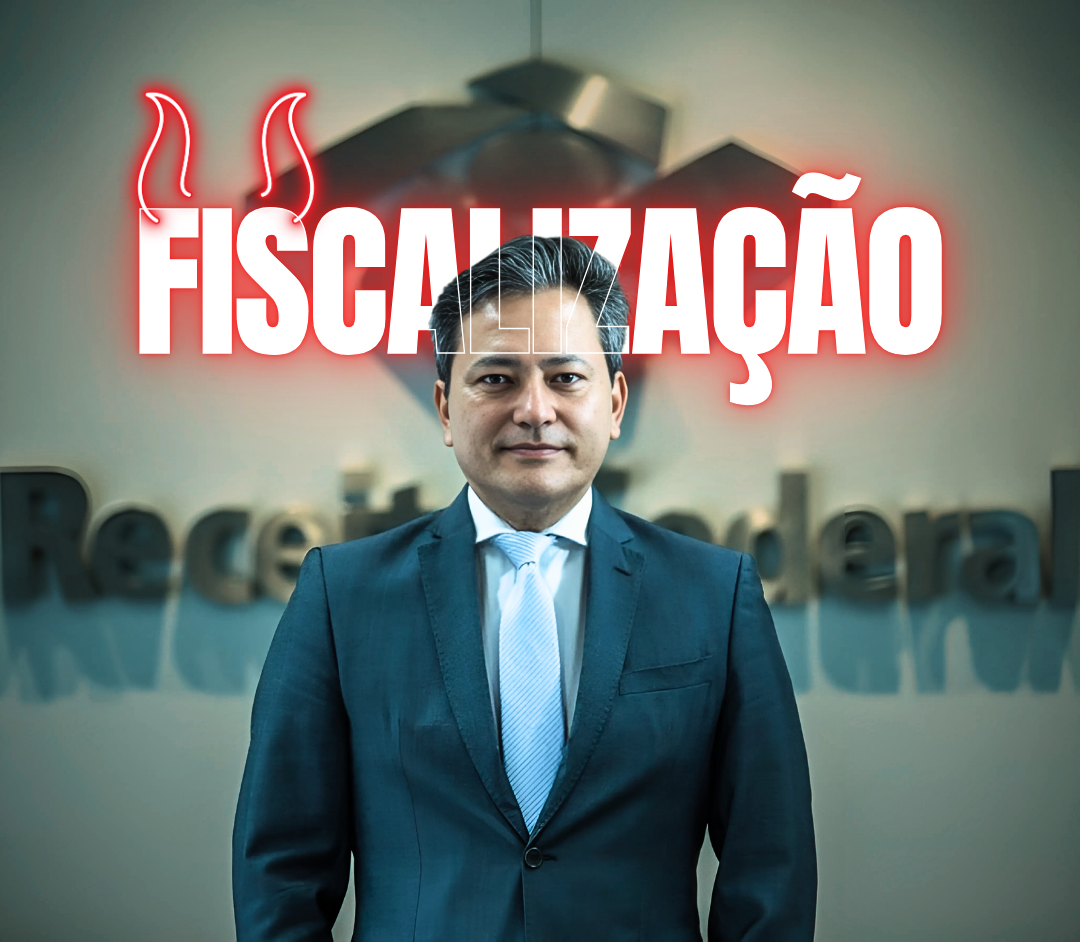
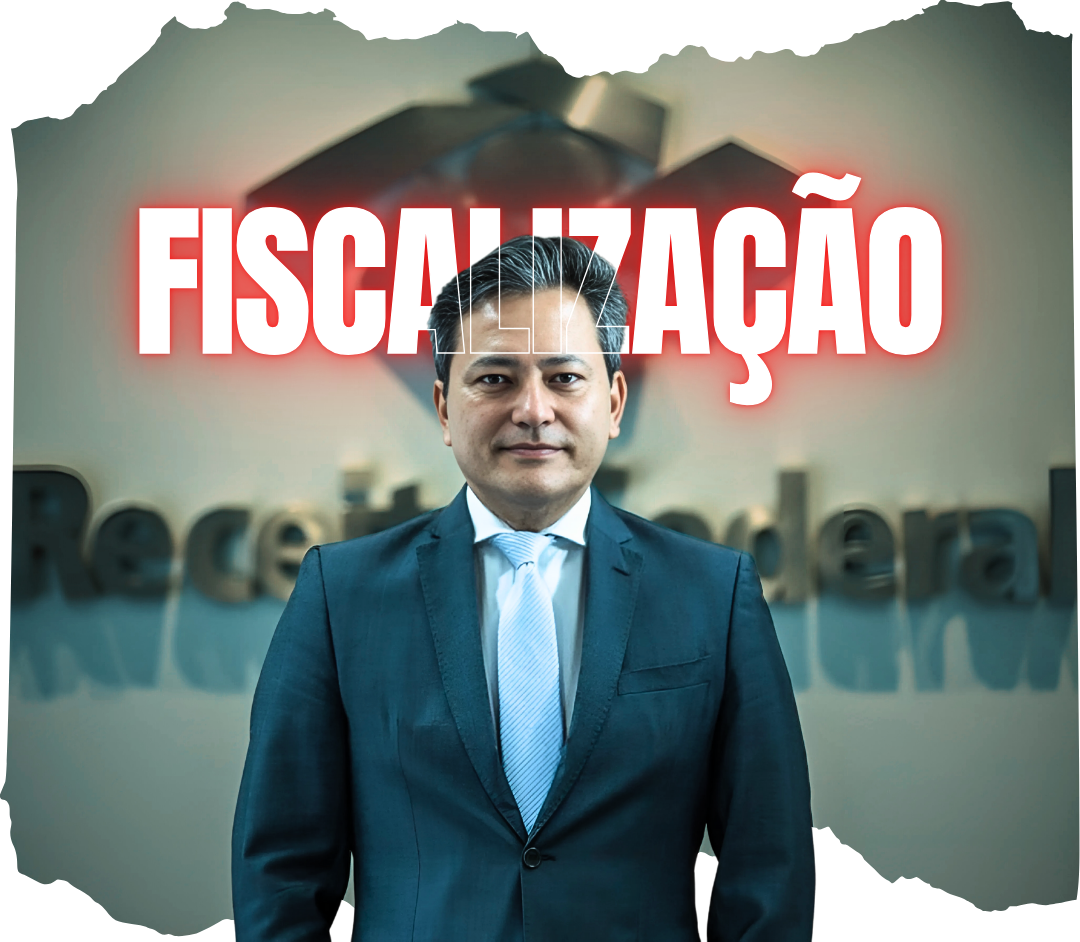
Mudanças radicais no layout

diff --git a/index.html b/index.html
@@ -21,8 +21,8 @@
             <div class="nav-list">
                 <ul>
                     <li class="nav-item"><a href="#" class="nav-link">SOBRE</a></li>
-                    <li class="nav-item"><a href="#" class="nav-link">CONTATO</a></li>
-                    <li class="nav-item"><a href="#" class="nav-link">MAIS</a></li>
+                    <li class="nav-item"><a href="#" class="nav-link">TUTORIAL</a></li>
+                    <li class="nav-item"><a href="#" class="nav-link">SUPORTE</a></li>
                 </ul>
             </div>
 
@@ -39,8 +39,8 @@
         <div class="mobile-menu">
             <ul>
                 <li class="nav-item"><a href="#" class="nav-link">SOBRE</a></li>
-                <li class="nav-item"><a href="#" class="nav-link">CONTATO</a></li>
-                <li class="nav-item"><a href="#" class="nav-link">MAIS</a></li>
+                <li class="nav-item"><a href="#" class="nav-link">TUTORIAL</a></li>
+                <li class="nav-item"><a href="#" class="nav-link">SUPORTE</a></li>
             </ul>
 
             <div class="login-button">
@@ -78,9 +78,60 @@
         </section>
 
         
-        <div class="quebra-texto">
-            <h1>Apresentando a TANIA: A Nova Era da Liberdade Financeira no Brasil</h1>
-        </div>
+        <section class="corrupcao-brasil">
+
+            <div>
+                <h1 id="titulo">Apresentando a TANIA: A Nova Era da Liberdade Financeira no Brasil</h1>
+            </div>
+            
+            <div class="corrupcao-brasil-conteudo">
+
+                <div class="fotos-quebra-texto">
+                    <img src="img/wallpaper/alexandre-de-moraes.png" alt="" width="400px">
+                </div>
+
+                <div class="quebra-texto">
+
+                    <h1>A Centralização do Governo e o Impacto na Moeda Local</h1>
+
+                    <p>
+                        A centralização excessiva de um governo pode trazer sérias consequências para a moeda local e, consequentemente, para a vida cotidiana das pessoas. Quando um Estado controla rigidamente a política econômica, ele pode manipular a emissão de dinheiro sem restrições, causando inflação descontrolada. Isso significa que o poder de compra da população diminui, os preços sobem e os salários se tornam insuficientes para cobrir necessidades básicas.
+                    </p>
+                    <p>
+                        Além disso, a centralização pode levar a políticas de controle cambial e restrições ao livre comércio, prejudicando negócios e investimentos. Empresas enfrentam barreiras burocráticas e alta tributação, desestimulando o crescimento econômico. No dia a dia, isso se traduz em produtos mais caros, desemprego e falta de oportunidades. Quando um governo tem controle absoluto sobre a economia, a população perde sua capacidade de tomar decisões financeiras independentes, ficando refém de uma estrutura que prioriza os interesses do Estado em detrimento da liberdade econômica dos cidadãos.
+                    </p>
+                </div>
+            </div>
+
+            <div class="corrupcao-brasil-conteudo">
+
+                <div class="quebra-texto">
+
+                    <h1>Fiscalização Excessiva e Invasão de Privacidade: Um Risco para a Liberdade Individual</h1>
+
+                    <p>
+                        A fiscalização excessiva e a invasão de privacidade representam ameaças sérias às liberdades individuais e ao funcionamento de uma sociedade justa. Quando o Estado ultrapassa limites razoáveis na coleta e monitoramento de informações pessoais, ele cria um ambiente onde os cidadãos vivem sob constante vigilância, o que pode levar à censura, repressão e perda de autonomia.
+                    </p>
+                    <p>
+                        A justificativa muitas vezes usada para tal interferência é a segurança nacional ou o combate à corrupção, mas, na prática, isso pode resultar no abuso de poder e na utilização indevida de dados pessoais. No cotidiano, isso se reflete em dificuldades para acessar serviços financeiros, restrições para realizar transações e riscos de perseguição política ou econômica.
+                    </p>
+                    <p>
+                        A invasão de privacidade também afeta a segurança digital, pois expõe indivíduos a vazamentos de dados, fraudes e manipulação de informações. Quando o governo ou grandes corporações monitoram cada movimento dos cidadãos, a liberdade de expressão é comprometida, pois as pessoas passam a temer represálias ao manifestar opiniões contrárias ao sistema estabelecido.
+                    </p>
+                    <p>
+                        A liberdade econômica e a privacidade são pilares fundamentais para o desenvolvimento de uma sociedade equilibrada. Um governo que controla excessivamente as finanças e espiona seus cidadãos enfraquece a confiança na economia e inibe o progresso social. Portanto, é essencial defender limites claros para a fiscalização estatal e garantir que os direitos individuais sejam respeitados, protegendo o futuro de uma sociedade verdadeiramente livre e próspera.
+                    </p>
+
+
+                </div>
+
+                <div class="fotos-quebra-texto">
+                    <img src="img/wallpaper/Barreirinhas-1080x942.png" alt="" width="400px">
+                </div>
+
+            </div>
+        
+        </section>
 
         <section class="secao-main2">
             
@@ -201,17 +252,16 @@
 
         <section class="secao-main6">
 
-            <div class="div-title-como-adquirir">
-                <h1>Junte-se à Revolução Financeira</h1>
-            </div>
                          
             <div class="div-revolucao">
 
+                <div class="div-title-como-adquirir">
+                    <h1>Junte-se à Revolução Financeira</h1>
+                </div>
+
                 <div class="div-content">
                     
-                    <img src="img/wallpaper/politicos.png" alt="" width="500px">
-                    <img src="img/wallpaper/alexandre-de-moraes.png" alt="" width="500px">
-                    <img src="img/wallpaper/Barreirinhas-1080x942.png" alt="" width="500px">
+                    <img src="img/wallpaper/politicos.png" alt="" width="700px">
                 </div>
 
                
@@ -220,7 +270,7 @@
         </section>
 
 
-        <footer>SITE CRIADO POR BRUNO NASCIMENTO</footer>
+        <footer>PROJETO DESENVOLVIDO POR <a href="https://github.com/Bruno70i?tab=repositories" target="_blank">BRUNO NASCIMENTO</a></footer>
 
     </main>
 

diff --git a/style.css b/style.css
@@ -216,24 +216,51 @@ button:hover {
 }
 
 
-.quebra-texto {
+.corrupcao-brasil {
     text-align: center;
     padding: 20px;
     font-size: 14px;
     font-family: var(--font-secondary);
+    margin: auto;
+    margin-bottom: 7rem;
+    max-width: 900px;
+    border-radius: 30px;
+    box-shadow: 5px 10px 15px 6px rgba(71, 66, 37, 0.377);
+    background-color: rgb(221, 219, 219);
 }
+
+
+.corrupcao-brasil-conteudo {
+    display: flex;
+    padding: 10px;
+}
+
+.corrupcao-brasil-conteudo p {
+    padding: 10px;
+    text-align: justify;
+    text-indent: 3rem;
+}
+
+#titulo {
+    padding: 30px;
+}
+
+.quebra-texto h1 {
+    font-size: 1rem;
+}
+
 
 
 /* -------------------- secao 2 INICIO -------------------- */
 .secao-main2 {
     margin: auto;
     align-items: center;
-    background-color: rgba(216, 216, 216, 0.692);
+    background-color: var(--cor-composto11);
+    color: white;
     display: flex;
     justify-content: space-around; /* organiza os itens no centro */
     padding: 15px;
-    max-width: 1200px;
-    border-radius: 20px;
+    max-width: 1000px;
     box-shadow: 5px 10px 15px 6px rgba(71, 66, 37, 0.377);
     margin-bottom: 150px;
 }
@@ -249,11 +276,11 @@ button:hover {
 
 .div-texto p {
     font-family: var(--font-secondary);
-    line-height: 1.5; /*espaços entre linhas*/
+    line-height: 1.3; /*espaços entre linhas*/
     text-indent: 2rem; /* indenta o texto */
     padding: 10px 10px 10px 0px;
     text-align: justify;
-    font-size: 20px;
+    font-size: 17px;
 }
 
 
@@ -352,7 +379,7 @@ button:hover {
 
 .secao-main5 {
     text-align: center;
-    margin-bottom: 10rem;
+    margin-bottom: 7rem;
     
 }
 
@@ -387,27 +414,31 @@ button:hover {
 /* -------------------- SECAO 6 inicio -------------------- */
 
 .secao-main6 {
-    background-color: var(--cor-composto11);
     margin: auto;
     text-align: center;
-    color: white;
+    padding: 30px;
+    .background-color: #000BED; /* aqui vai o back grand de imagme- */
 }
 
 .div-revolucao {
-    display: flex;
     margin: auto;
     padding: 20px;
-    max-width: 1800px;
+    max-width: 800px;
     align-items: center;
     justify-content: center;
     font-family: var(--font-secondary);
-    
+    border-radius: 20px;
+    background-color: rgb(221, 221, 221);
+    box-shadow: 5px 5px 25px 5px rgba(0, 0, 0, 0.445);
 }
 
-.div-content p {
-    padding: 20px;
-    font-size: 20px;
+.div-content {
+    justify-content: center;
 }
+
+
+
+
 
 /* -------------------- SECAO 6 fim -------------------- */
 
@@ -422,5 +453,9 @@ footer {
     background-color: var(--cor-composto11);
     padding: 10px;
     text-align: center;
+    color: white;
+}
+
+footer a {
     color: white;
 }
